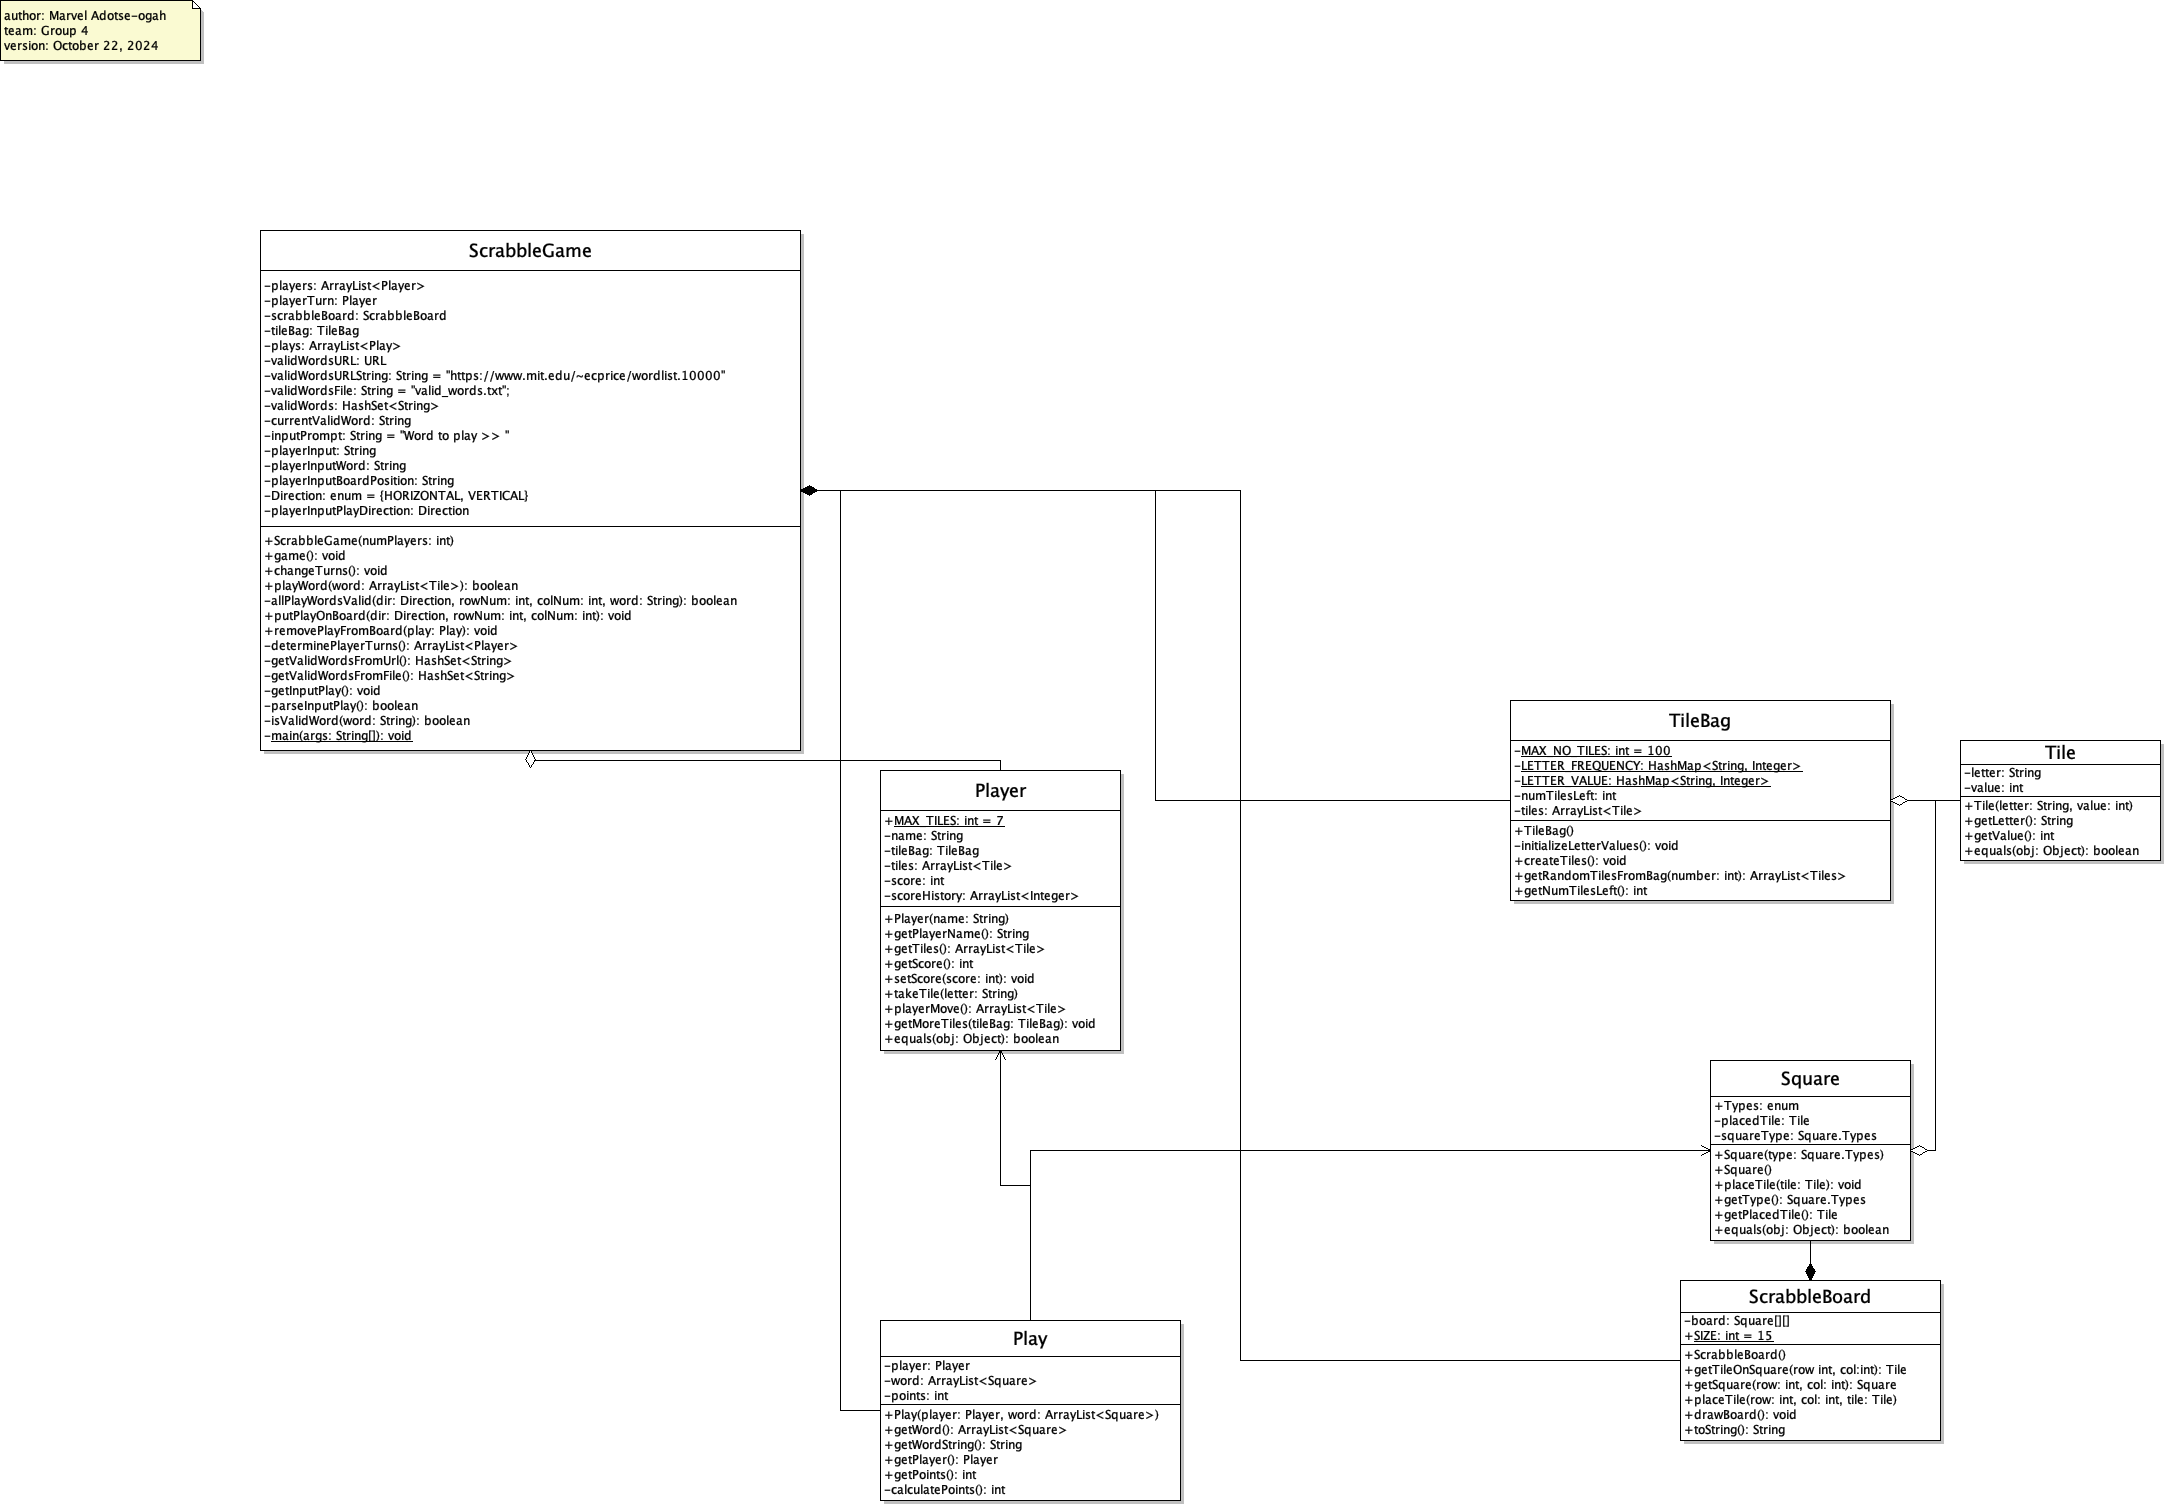
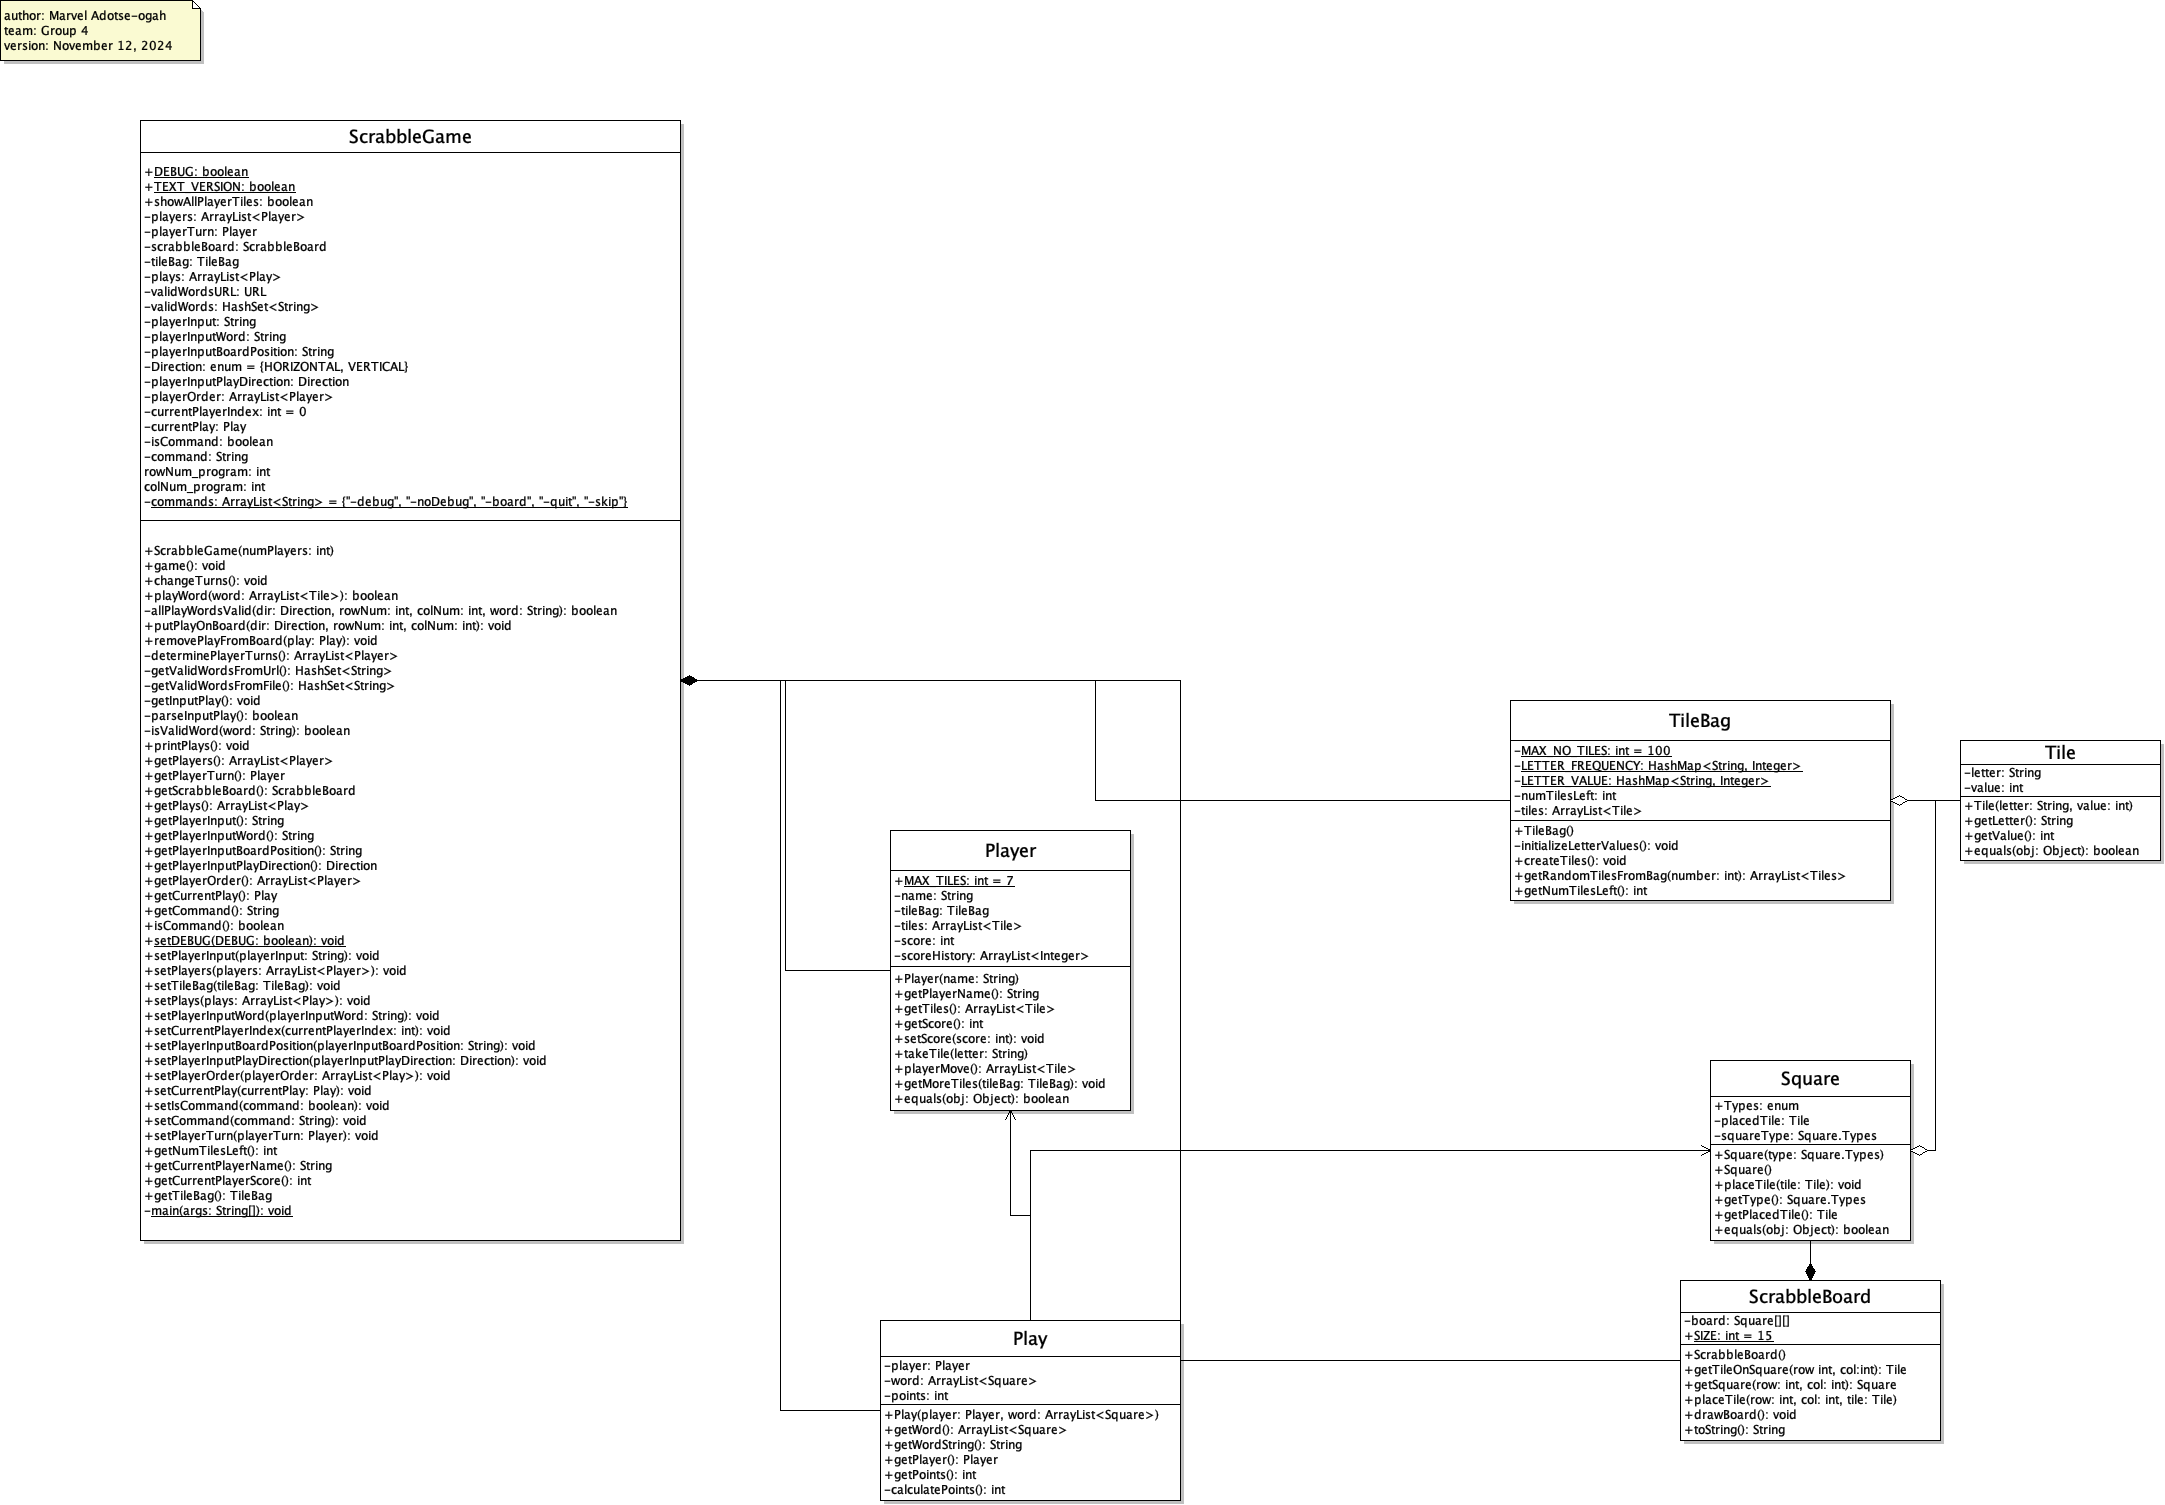
Added Javadoc comments. Updated UML file

diff --git a/src/ScrabbleGame.java b/src/ScrabbleGame.java
@@ -17,7 +17,7 @@ public class ScrabbleGame {
     /** Controls the debug state of the ScrabbleGame*/
     public static boolean DEBUG = false; // To be added to the XML 'configuration' file
     /** Controls all elements concerned with the text version of the ScrabbleGame*/
-    public static boolean TEXT_VERSION = true;
+    public static boolean TEXT_VERSION = false;
     /** Shows the tiles of all players on each turn*/
     boolean showAllPlayerTiles = false; // To be added to the XML 'configuration' file
     /** Players of the game*/
@@ -924,7 +924,7 @@ public class ScrabbleGame {
 
     /**
      * Sets the playerInputBoardPosition for the current play.
-     * @param playerInputBoardPosition
+     * @param playerInputBoardPosition The board position to set.
      */
     public void setPlayerInputBoardPosition(String playerInputBoardPosition) {
         this.playerInputBoardPosition = playerInputBoardPosition;
@@ -932,7 +932,7 @@ public class ScrabbleGame {
 
     /**
      * Sets the playerInputPlayDirection for the current play.
-     * @param playerInputPlayDirection
+     * @param playerInputPlayDirection The Direction to set
      */
     public void setPlayerInputPlayDirection(Direction playerInputPlayDirection) {
         this.playerInputPlayDirection = playerInputPlayDirection;
